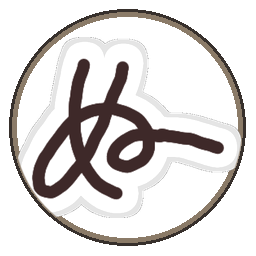
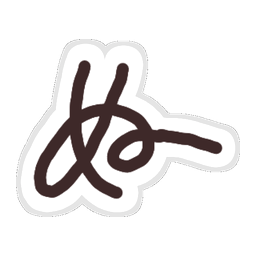
沼アイコンをメダル枠対象から除外し生成スクリプトを整理
メダル化はカード固有パワーの切り抜きのみ。汎用デバフの沼（ぬ）は透過プレーンアイコンに戻した。

diff --git a/tools_gen_power_icons_from_cards.py b/tools_gen_power_icons_from_cards.py
@@ -1,5 +1,9 @@
 #!/usr/bin/env python3
-"""Generate HypnosisCreator power icons from card portraits or custom sources."""
+"""Generate HypnosisCreator power icons from card portraits or custom sources.
+
+Medal framing applies only to card-granted powers (portrait cutouts).
+Non-card art such as bog (ぬ) uses a plain transparent icon.
+"""
 
 from __future__ import annotations
 
@@ -10,7 +14,11 @@ from pathlib import Path
 
 from PIL import Image
 
-from tools_power_icon_style import center_square_crop, make_power_icon
+from tools_power_icon_style import (
+    center_square_crop,
+    make_plain_icon,
+    make_power_icon,
+)
 
 ROOT = Path(__file__).resolve().parent
 PORTRAITS = ROOT / "HypnosisCreator" / "images" / "card_portraits"
@@ -20,9 +28,8 @@ SOURCES = POWERS / "_sources"
 SMALL_SIZE = 64
 BIG_SIZE = 256
 
-# power file stem -> card portrait stem (None = custom source)
-CARD_POWER_MAP: dict[str, str | None] = {
-    "bog_power": None,
+# Card-granted powers only: power stem -> granting card portrait stem
+CARD_DERIVED_POWER_MAP: dict[str, str] = {
     "cult_leader_power": "cult_leader",
     "oshi_activity_power": "proselytize",
     "acceptance_need_power": "acceptance_need",
@@ -61,6 +68,7 @@ CARD_POWER_MAP: dict[str, str | None] = {
     "next_turn_asleep_power": "poor_sleep",
 }
 
+# Never overwritten by this generator (custom art / relic icons / vanilla-style)
 SKIP_POWERS = {
     "power",
     "abnormal_fetish_power",
@@ -123,7 +131,7 @@ def load_bog_nu_content() -> Image.Image:
     return remove_near_black_background(Image.open(NU_PROJECT_SOURCE))
 
 
-def save_pair(stem: str, content: Image.Image) -> None:
+def save_card_derived_pair(stem: str, content: Image.Image) -> None:
     small = make_power_icon(content, SMALL_SIZE)
     big = make_power_icon(content, BIG_SIZE)
     (POWERS / "big").mkdir(parents=True, exist_ok=True)
@@ -131,15 +139,20 @@ def save_pair(stem: str, content: Image.Image) -> None:
     big.save(POWERS / "big" / f"{stem}.png")
 
 
+def save_bog_pair(content: Image.Image) -> None:
+    small = make_plain_icon(content, SMALL_SIZE)
+    big = make_plain_icon(content, BIG_SIZE)
+    (POWERS / "big").mkdir(parents=True, exist_ok=True)
+    small.save(POWERS / "bog_power.png")
+    big.save(POWERS / "big" / "bog_power.png")
+
+
 def should_generate(power_stem: str, *, force: bool) -> bool:
     if power_stem in SKIP_POWERS:
         return False
     if force:
         return True
-    out_small = POWERS / f"{power_stem}.png"
-    if power_stem == "bog_power":
-        return True
-    return is_placeholder(out_small)
+    return is_placeholder(POWERS / f"{power_stem}.png")
 
 
 def main() -> int:
@@ -147,7 +160,12 @@ def main() -> int:
     parser.add_argument(
         "--force",
         action="store_true",
-        help="Regenerate even when a non-placeholder icon already exists.",
+        help="Regenerate card-derived icons even when a non-placeholder file exists.",
+    )
+    parser.add_argument(
+        "--bog-only",
+        action="store_true",
+        help="Regenerate bog (ぬ) plain icon only.",
     )
     args = parser.parse_args()
 
@@ -155,21 +173,23 @@ def main() -> int:
     generated: list[str] = []
     skipped: list[str] = []
 
-    for power_stem, card_stem in CARD_POWER_MAP.items():
+    if args.bog_only:
+        save_bog_pair(load_bog_nu_content())
+        print("generated: 1")
+        print("  + bog_power")
+        return 0
+
+    for power_stem, card_stem in CARD_DERIVED_POWER_MAP.items():
         if not should_generate(power_stem, force=args.force):
             skipped.append(power_stem)
             continue
 
-        if power_stem == "bog_power":
-            content = load_bog_nu_content()
-        else:
-            assert card_stem is not None
-            content = load_card_content(card_stem)
-            if content is None:
-                missing_cards.append(f"{power_stem} <- {card_stem}.png")
-                continue
+        content = load_card_content(card_stem)
+        if content is None:
+            missing_cards.append(f"{power_stem} <- {card_stem}.png")
+            continue
 
-        save_pair(power_stem, content)
+        save_card_derived_pair(power_stem, content)
         generated.append(power_stem)
 
     print("generated:", len(generated))

diff --git a/tools_power_icon_style.py b/tools_power_icon_style.py
@@ -76,5 +76,23 @@ def apply_medal_frame(content: Image.Image, size: int) -> Image.Image:
 
 
 def make_power_icon(content: Image.Image, size: int) -> Image.Image:
-    """Public entry: square source art -> medal icon."""
+    """Card portrait cutout -> medal icon."""
     return apply_medal_frame(content, size)
+
+
+def make_plain_icon(content: Image.Image, size: int) -> Image.Image:
+    """Non-card art (e.g. bog ぬ): transparent canvas, no medal frame."""
+    canvas = Image.new("RGBA", (size, size), (0, 0, 0, 0))
+    pad = max(2, size // 16)
+    fit = size - pad * 2
+
+    art = content.convert("RGBA")
+    art.thumbnail((fit, fit), Image.Resampling.LANCZOS)
+    rgb = ImageEnhance.Contrast(art.convert("RGB")).enhance(1.05)
+    alpha = art.split()[-1]
+    art = Image.merge("RGBA", (*rgb.split(), alpha))
+
+    ox = (size - art.width) // 2
+    oy = (size - art.height) // 2
+    canvas.alpha_composite(art, (ox, oy))
+    return canvas